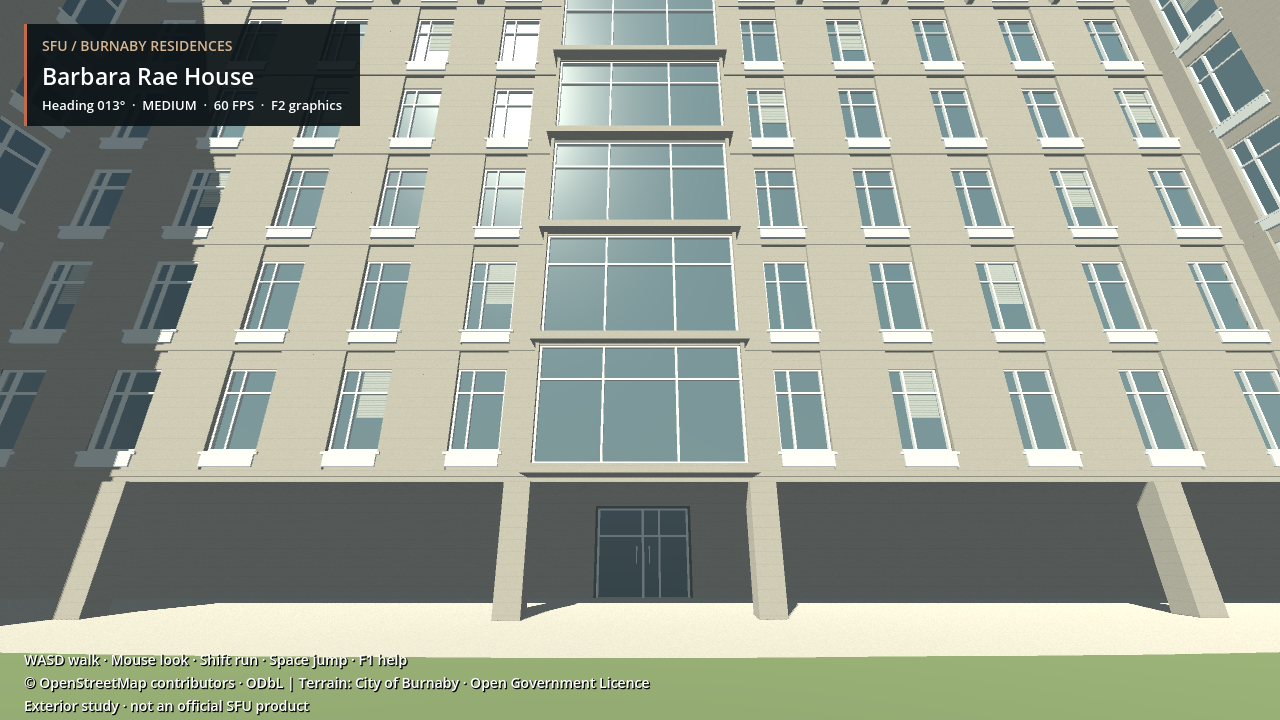
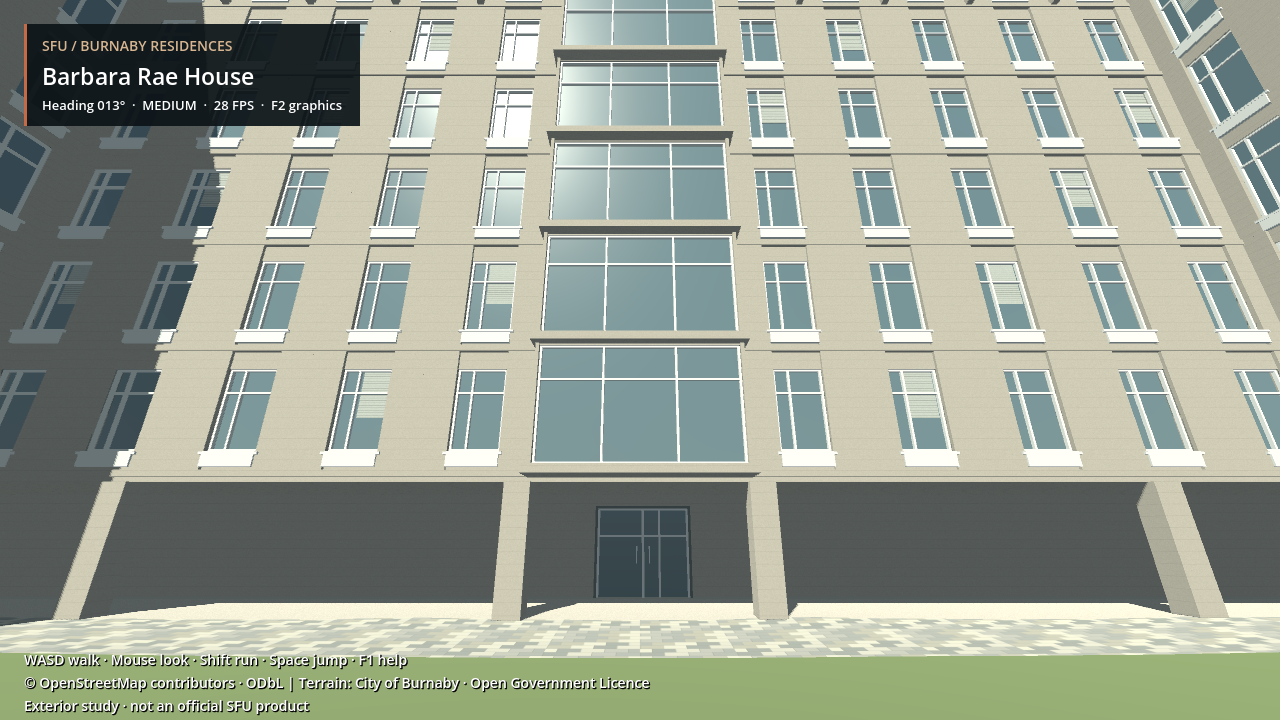
Add restrained grass surface and save verified exterior capture checkpoint

Changed region(s): [[0.0, 0.8556, 1.0, 0.9167], [0.1562, 0.1222, 0.1875, 0.1528]]

diff --git a/docs/PHASE2_HANDOFF.md b/docs/PHASE2_HANDOFF.md
@@ -3,7 +3,7 @@
 ## Resume here
 Use outer game/ and current working tree. Latest committed milestone: 1df28b3 Dining exterior. Earlier verified milestones: da90b52 North longitudinal gallery, 996cd31 Hamilton, 9935b61 Shell facade, 6f108df Shell grade stems.
 
-Landscape increment ready for checkpoint:
+Landscape checkpoint 55c709d:
 - ResidencePavers.gd: original 256px mipmapped grey running-bond pavers, estimated 400x200mm scale, aligned to North courtyard apron. Gallery floor remains concrete.
 - CourtyardLighting.gd: open-frame charcoal fixture from user PWL 1025. Replaces generic fixture shapes at existing estimated positions near EAT/WET; no claim of surveyed light coordinates.
 - NorthTowerPassage.gd and ResidenceWorld.gd integrate these; north capture adds close-up views 13/14.
@@ -26,3 +26,6 @@ Use bash scripts/run_game.sh; restart needed to see changes in an already runnin
 All edits are local. User reference photos, FILE_MANIFEST.json, historic_maps and untracked metadata must be preserved. 27 known one-off patch scripts were backed up byte-for-byte to /home/danik/Backups/SFU-iteration-helper-scripts-20261017 and removed from scripts/. Unknown files were preserved.
 
 Continue useful evidence-backed work while usage permits. Five hours is a usage reset, not a deadline. Save status/handoff after each verified milestone; stop only on actual low-usage signal or user instruction.
+
+## Verified grass material increment
+GroundMaterials.gd adds a subtle original mipmapped grass colour texture to the existing terrain mesh. No vertex, normal, height, collision or pad changes. This is generic surface detail consistent with planted-site references, not a surveyed species or planting map. Smoke passed in /tmp/ground-material-smoke.log; /tmp/ground-material-capture.log completed and both landscape views inspected; preservation/family validators passed. Next: extend the searchable per-photo review index for remaining buildings before further architectural edits.

diff --git a/docs/PHASE2_STATUS.md b/docs/PHASE2_STATUS.md
@@ -1,7 +1,7 @@
 # Phase 2 status — 2026-10-17
 
 ## Current runnable checkpoint
-Commit 1df28b3: Dining Commons exterior, following North gallery, Hamilton and Shell milestones. Godot 4.7.2 Standard, GDScript, Compatibility/OpenGL, Debian WSL2 retained. First-person mouse fix remains unchanged and was confirmed working by the user.
+Commits 1df28b3 (Dining Commons) and 55c709d (landscape paving/fixtures), following North gallery, Hamilton and Shell milestones. Godot 4.7.2 Standard, GDScript, Compatibility/OpenGL, Debian WSL2 retained. First-person mouse fix remains unchanged and was confirmed working by the user.
 
 ## Verified progress
 - North Towers: shared model with the user's corrected LONGITUDINAL courtyard-side gallery connecting Pauline Jewett, Barbara Rae and Shadbolt. Previous transverse-tunnel assumptions are obsolete. Recessed closed doors, columns, rear boundary and overhead collision; connectors are estimated.
@@ -20,3 +20,6 @@ Photo-based North courtyard pavers and open-frame courtyard light geometry at ex
 
 ## Remaining work
 See PHASE2_PHOTO_REFINEMENT_BACKLOG.md and individual HAMILTON/SHELL/DINING/LANDSCAPE review documents. Priorities: exact North parking-stair/longitudinal-gallery relationship, planted-bed boundaries and terrain transitions, Shell entrance/above-grade exposure, as-built Dining exterior, further Courtyard/McTaggart entry detail. Photograph material evidence does not establish measured locations.
+
+## Verified grass material increment
+GroundMaterials.gd adds a subtle original mipmapped grass colour texture to the existing terrain mesh. No vertex, normal, height, collision or pad changes. This is generic surface detail consistent with planted-site references, not a surveyed species or planting map. Smoke passed in /tmp/ground-material-smoke.log. GTX1650 capture completed; both landscape views inspected. Terrain/preservation and family validators pass.

diff --git a/docs/PHASE2_LANDSCAPE_PHOTO_REVIEW.md b/docs/PHASE2_LANDSCAPE_PHOTO_REVIEW.md
@@ -13,3 +13,5 @@ Open-frame charcoal courtyard fixtures now replace generic pole/cap shapes at ex
 Stair-location audit: archived prototype source OSM 1159793611 runs from (112.856,8.273) to (110.252,19.715), beside the inter-house gap. Shadbolt photo entry registry is (118.507,40.275), and its long-wing centre is about (144.69,31.90). That segment cannot simply be asserted to be the foreground flight in PWL 1001. The old prototype's six broad treads over 11.7 m also do not match the compact photo flight. Keep archived until independently localized; do not restore based only on nearby house identity.
 
 Validation: 177 checks and all 333 route checkpoints passed. North views 13/14 visually inspected; paver tones reduced after first capture and final landscape_0 inspected. Dedicated --capture-landscape now captures the apron and fixture in two views.
+
+GroundMaterials.gd now adds original subtle grass colour variation with a single mipmapped texture. No extra geometry, no species claim and no change to the terrain height field. Final smoke and eye-level landscape captures passed; protected data/family validators passed.
